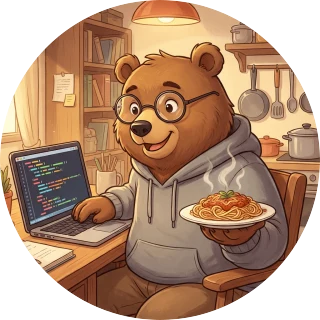
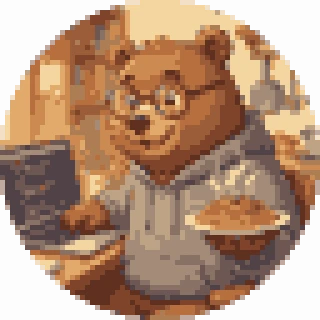
아바타를 도트화 — 매끈한 카툰과 도트 UI의 언어 불일치 해소
일러스트가 정체성은 정확했지만 사이트의 도트 기조와 언어가 어긋났다.
원본을 64px 격자 / 24색으로 변환한다.

두 단계가 다 필요하다.
- 작게 줄이기: 픽셀 격자를 만든다
- 색 수 줄이기: 이걸 빼면 도트가 아니라 흐릿한 저해상도 사진이 된다

해상도는 실제로 비교해서 골랐다. 48px/16색 이하로 내리면 안경과 표정이
뭉개져 "누구인지"가 사라진다. 64px/24색이 최적점.

부수 효과 — --radius: 0 의 예외가 사라졌다.
원형 마스크를 64px 격자에서 적용해 테두리도 픽셀 계단이 되므로
CSS border-radius 가 필요 없다. 이제 사이트에 둥근 요소가 하나도 없다.

용량도 줄었다. avatar 29K→18K, og-default 211K→36K.

diff --git a/CLAUDE.md b/CLAUDE.md
@@ -88,14 +88,20 @@ Galmuri11은 11px 비트맵이라 **한글이 22px 미만에서 깨진다.** 22p
 
 | 그림 | 파일 | 쓰는 곳 |
 |---|---|---|
-| 도트 곰 | `public/favicon.svg` | **16~32px** — 파비콘 전용 |
-| 일러스트 | `public/avatar.webp` | **56px 이상** — 홈 히어로, 소개, OG(`og-default.png`) |
+| 손으로 찍은 도트 곰 | `public/favicon.svg` | **16~32px** — 파비콘 전용 |
+| 도트화한 일러스트 | `public/avatar.webp` | **56px 이상** — 홈 히어로, 소개, OG |
 
 크기마다 살아남는 그림이 다르다. 일러스트는 파비콘 크기에서 뭉개지고,
-도트 곰은 큰 자리에서 밋밋하다. **섞어 쓰지 않는다.**
+16x16 도트 곰은 큰 자리에서 밋밋하다. **섞어 쓰지 않는다.**
+둘 다 도트라 언어는 같다.
 
-아바타는 `border-radius: 50%` 로, **이 사이트에서 유일하게 둥근 요소다**(`--radius: 0` 의 예외).
-원본이 원형 구성이고, 사각으로 자르면 흰 모서리가 다크모드에서 밝은 사각형으로 튄다.
+아바타는 **64px 격자 / 24색**으로 도트화한다(`scripts/gen-brand-assets.mjs`).
+48px 이하로 내리면 안경과 표정이 뭉개져 "누구인지"가 사라진다.
+색 수를 안 줄이면 도트가 아니라 그냥 흐릿한 저해상도 사진이 된다.
+
+원형 마스크는 **64px 격자에서** 적용해 테두리도 픽셀 계단으로 만든다.
+그래서 CSS `border-radius` 를 쓰지 않는다 — 매끈한 곡선이 안쪽 픽셀과 어긋난다.
+확대는 `image-rendering: pixelated`.
 
 전부 `npm run brand` 로 `assets/avatar-source.webp` 에서 재생성된다.
 
